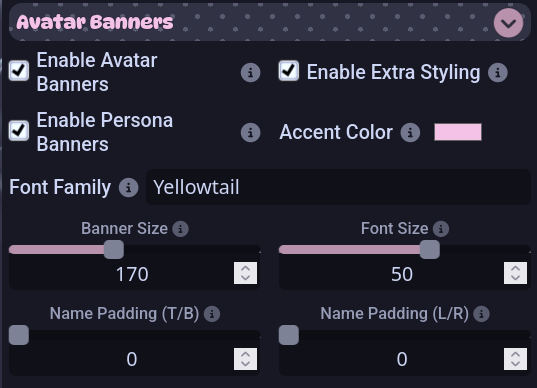
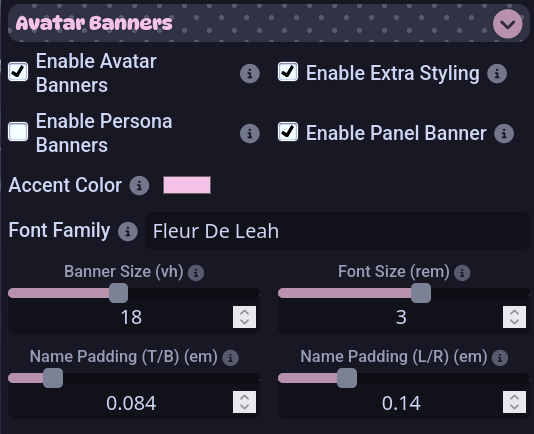
Add files via upload

diff --git a/README.md b/README.md
@@ -9,7 +9,7 @@ Inspired by @Rivelle from [a CSS snippet she shared on SillyTavern's discord](ht
 
 **21/01**: Now with compatibility with [Moonlit Echoes theme](https://github.com/RivelleDays/SillyTavern-MoonlitEchoesTheme). If you have Moonlit Echoes installed it will apply to the bubble and flat style automatically. No other styles would be affected, they are already beautifully crafted.
 
-**29/01**: Added more personalization by uploading a second image to use as a banner, editing the accent color and the quote color per character and persona
+**29/01**: Added more personalization by uploading a second image to use as a banner, editing the accent color and the quote color per character and persona. Added banner into the character panel
 
 > [!Important]
 > This extension has been created with Claude. Vibecoded if you will. If you don't trust it, you don't like it or you don't support it is absolutely fine, this was to scratch my own itch more than anything and I use it myself.
@@ -28,6 +28,7 @@ https://github.com/phampyk/SillyTavern-AvatarBanner/
 - **Enable Avatar Banners**: Enable or disable the whole extension. Quick way to disable all the changes
 - **Enable Persona Banners**: Do you want the persona bubble to have avatar or not, up to you. This setting is global and affects all chats
 - **Enable Extra Styling**: The chat gradation at the bottom and the different font can be disabled. In case you don't want it or you want to apply your own CSS style on ST settings. If this is disabled only the banners will show
+- **Enable Panel Banner**: Enable or disable the character panel banner. Independant from the chat banner, you can have the character panel banner only.
 - **Accent color**: The color that will show on the font and the bottom of the bubble
 - **Font family**: It uses [google fonts](https://fonts.google.com). Choose a family (case sensitive, name it the same way it shows on the website), write the name and see the magic happen.
 - **Banner size**: The amount of pixels for the banner
@@ -43,6 +44,7 @@ You will find the buttons and color pickers on the character and persona charact
 - The `edit button` will let you recrop whatever image you already have as a banner or remove the banner completely
 - The `accent color` picker will change the name, border and bottom gradient color
 - The `quote color` will change the color for the quote text of the character (whatever is between " ")
+- If you want to restart the colors to the default ones press the arrow
 
 ## Screenshots
 
@@ -57,6 +59,10 @@ Group with different colors per character, to help differentiate each character.
 ![Banners without user](/img/screenshot-nouserbanner.png)
 
 Image of the chat with the character only banner.
+
+![Banners on the character panel](/img/screenshot-characterpanel.png)
+
+The character panel shows the banner too for the ✨ A E S T H E T I C S ✨
 
 ## Troubleshoot
 If your font doesn't show up after writting the name (it happened to me with the font '[Molle](https://fonts.google.com/specimen/Molle)') you will have to copy the whole @import code. To get this you need to go to the font page, press the button `Get Font` then the bag icon at the top right.
